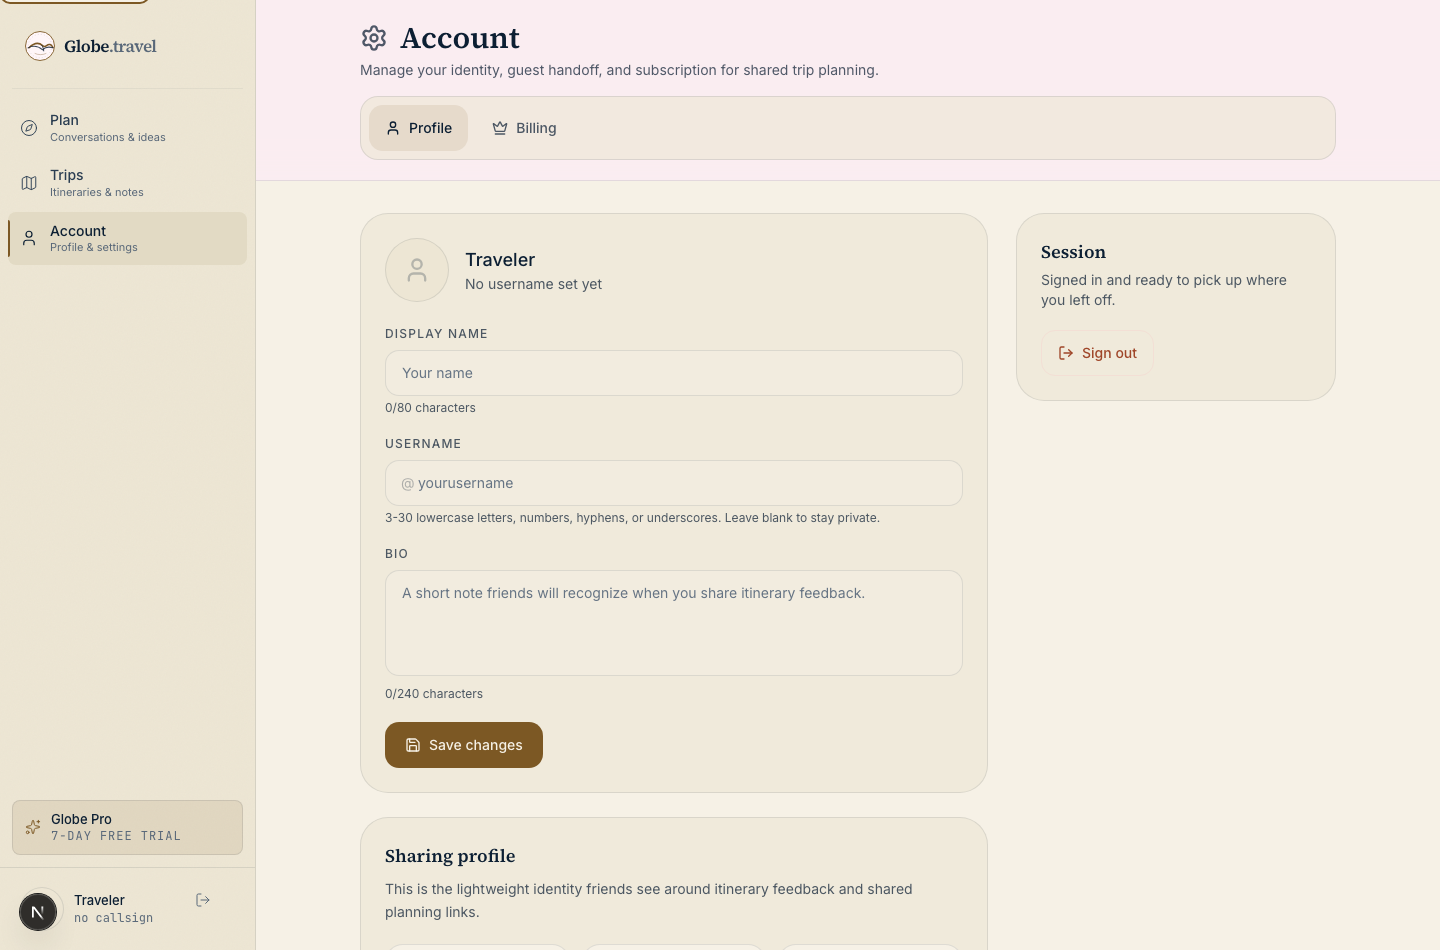
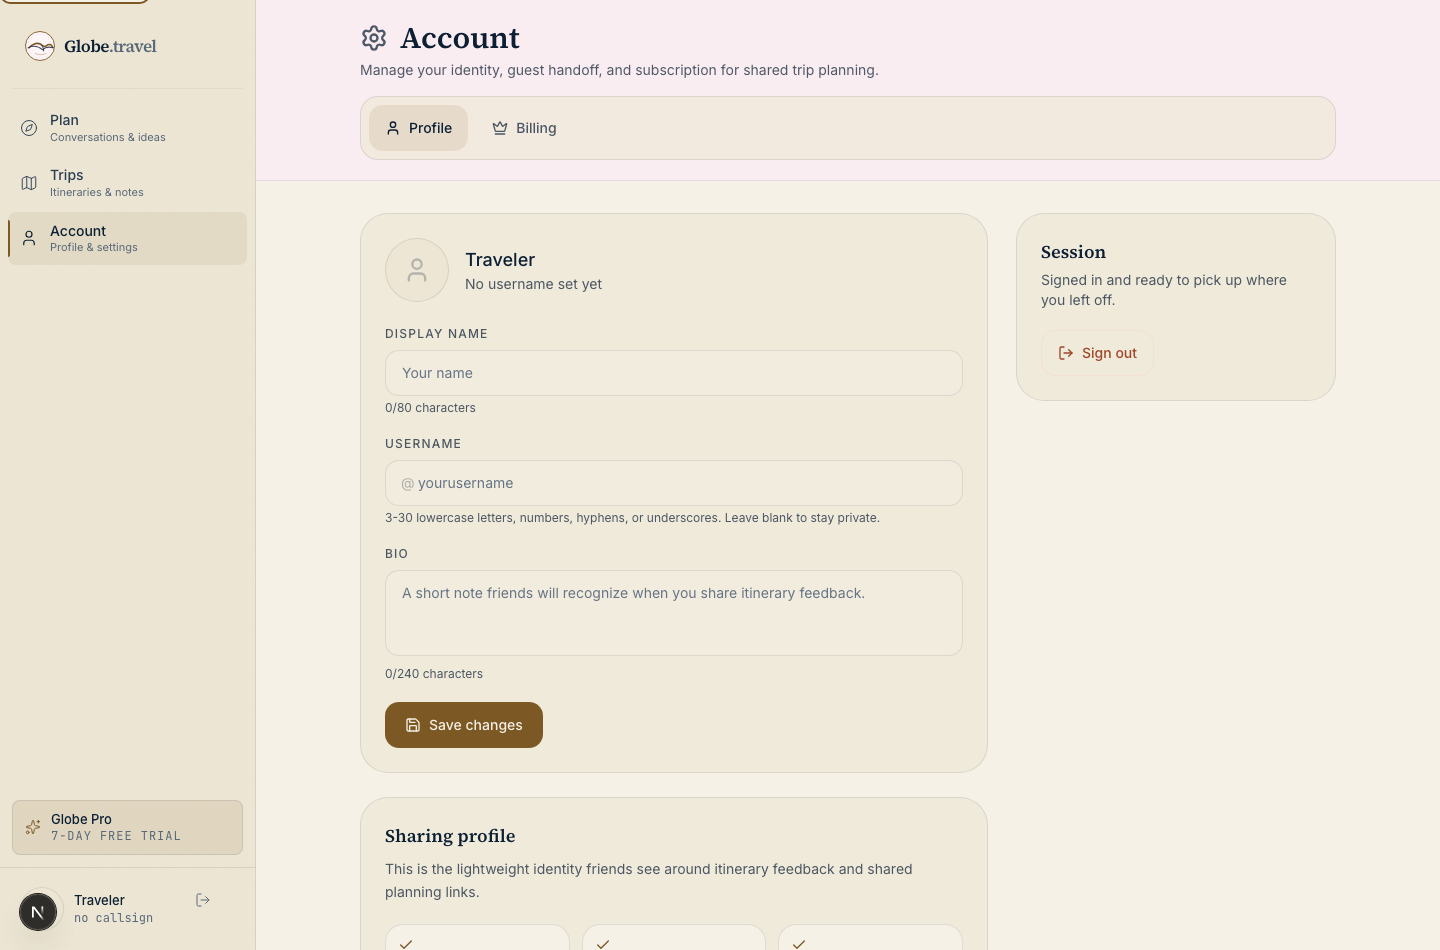
Silence guest subscription status noise

Changed region(s): [[0.25, 0.8547, 0.625, 0.9768], [0.25, 0.7021, 0.375, 0.8242]]

diff --git a/client/app/api/stripe/subscription/route.ts b/client/app/api/stripe/subscription/route.ts
@@ -1,11 +1,18 @@
 import { NextResponse } from 'next/server'
-import { createClient } from '@/lib/supabase-server'
+import { requireUser } from '@/app/api/trips/_utils'
 import { getUserSubscription } from '@/lib/subscription'
 
 export async function GET() {
-  const supabase = await createClient()
-  const { data: { user } } = await supabase.auth.getUser()
-  if (!user) return NextResponse.json({ error: 'Unauthorized' }, { status: 401 })
+  const { supabase, user } = await requireUser()
+  if (!user) {
+    return NextResponse.json({
+      plan: 'free',
+      status: 'active',
+      currentPeriodEnd: null,
+      cancelAtPeriodEnd: false,
+      stripeCustomerId: null,
+    })
+  }
 
   const subscription = await getUserSubscription(supabase, user.id)
   return NextResponse.json(subscription)
